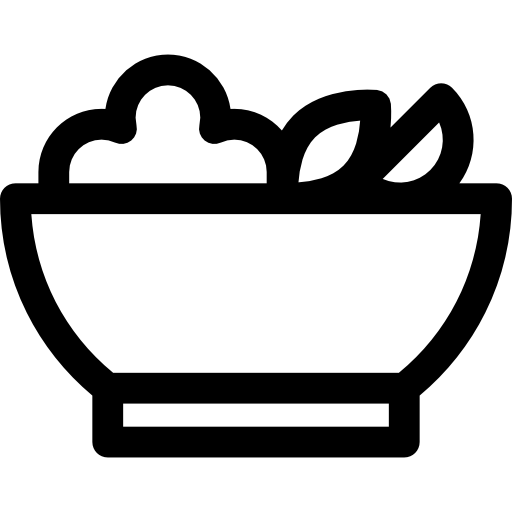
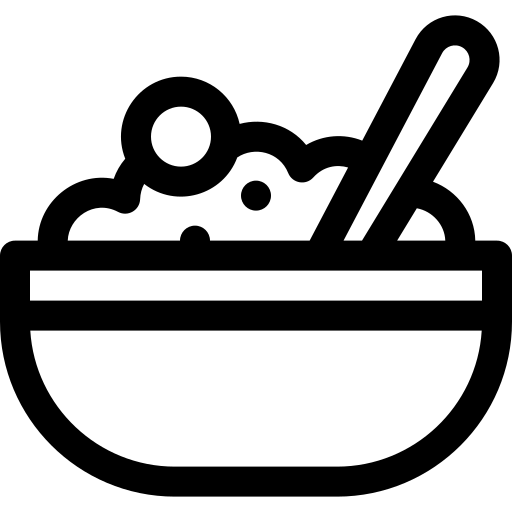
Added breakfasts

diff --git a/promprog/templates/dashboard.html b/promprog/templates/dashboard.html
@@ -99,7 +99,7 @@
     <div class="row g-4">
         <!-- ЛЕВАЯ КОЛОНКА -->
         <div class="col-lg-3">
-            <div class="sticky-top" style="top: 20px;">
+            <div>
 
                 <!-- ОБЪЕДИНЕННЫЙ БЛОК: ФИЛЬТРЫ + КОРЗИНА -->
                 <div class="card border-0 shadow-sm mb-4">
@@ -127,6 +127,9 @@
                                 <div class="form-check"><input class="form-check-input filter-checkbox" type="checkbox"
                                         value="Выпечка" checked id="c6"><label class="form-check-label cursor-pointer"
                                         for="c6">Выпечка</label></div>
+                                <div class="form-check"><input class="form-check-input filter-checkbox" type="checkbox"
+                                        value="Завтрак" checked id="c7"><label class="form-check-label cursor-pointer"
+                                        for="c7">Завтрак</label></div>
                             </div>
                         </div>
 

diff --git a/promprog/app.py b/promprog/app.py
@@ -37,6 +37,7 @@ app.add_url_rule('/confirm_mail', view_func=account_r.confirm_mail, methods=['GE
 app.add_url_rule('/profile', view_func=account_r.profile, methods=['GET', 'POST'])
 app.add_url_rule('/login_wout_pass', view_func=account_r.login_wout_pass, methods=['GET', 'POST'])
 app.add_url_rule('/confirm_login_mail', view_func=account_r.confirm_login_mail, methods=['GET', 'POST'])
+app.add_url_rule('/choose', view_func=account_r.choose)
 #student_routes.py
 app.add_url_rule("/got_food/<id>", view_func=student_r.gotfood, methods=['POST'])
 app.add_url_rule('/add_to_cart/<id>', view_func=student_r.add_to_cart)
@@ -75,10 +76,6 @@ def store_current_page():
             session['pre_previous_page'] = session.get('previous_page', '/dashboard')
             session['previous_page'] = session.get('now_page', '/dashboard')
             session['now_page'] = request.url
-
-@app.route('/choose')
-def choose():
-    return render_template('choose.html', **commonkwargs(getlogin()))
 
 @app.route('/dashboard')
 def dashboard():

diff --git a/promprog/subscript/account_routes.py b/promprog/subscript/account_routes.py
@@ -5,6 +5,9 @@ from subscript.filework import *
 from subscript.account_system import *
 from random import randint
 
+def choose():
+    return render_template('choose.html', **commonkwargs(getlogin()))
+
 def login():
     email = getlogin()
     if (email != 'placeholder'):
